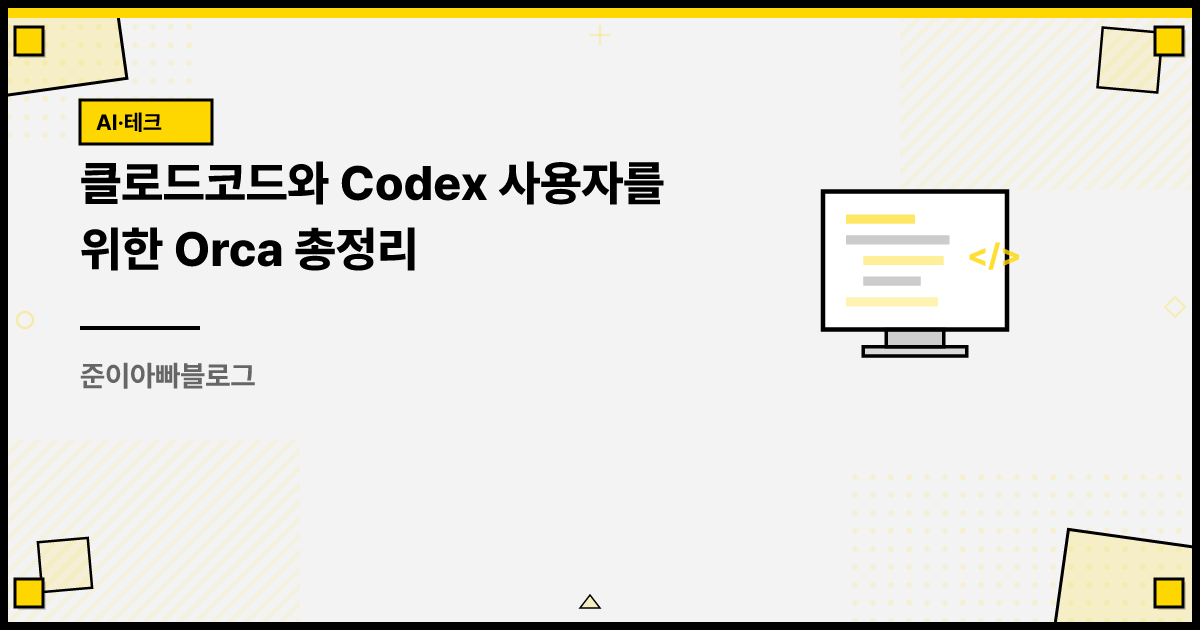
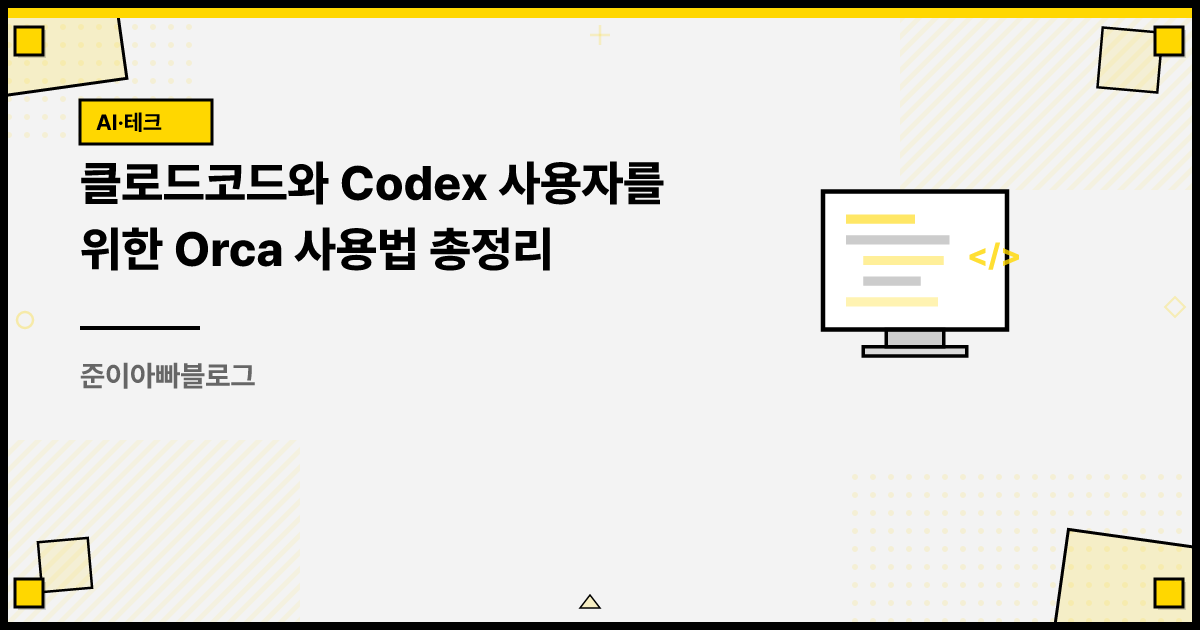
fix(insight): Orca 글 제목에 '사용법' 키워드 추가
- '클로드코드와 Codex 사용자를 위한 Orca 사용법 총정리'로 변경
- metaTitle, ogTitle, og 썸네일, llms.txt 목록 동기화

Changed region(s): [[0.2467, 0.3619, 0.4625, 0.4524]]

diff --git a/content/insights/orca-ide-easy-guide.md b/content/insights/orca-ide-easy-guide.md
@@ -1,6 +1,6 @@
 ---
 slug: orca-ide-easy-guide
-title: 클로드코드와 Codex 사용자를 위한 Orca 총정리
+title: 클로드코드와 Codex 사용자를 위한 Orca 사용법 총정리
 excerpt: >-
   클로드 코드(Claude Code)나 코덱스(Codex)를 쓰고 있다면 한 번쯤 들어봤을 Orca를 총정리했습니다. 두 도구를 여러 개
   동시에 돌리는 무료 프로그램 Orca의 정체, 사용법, VS Code, 커서와의 차이, 아직 불안정한 부분까지 다룹니다.
@@ -16,11 +16,11 @@ highlights:
     쓰던 클로드 코드나 코덱스 구독을 그대로 연결해서 쓰는 방식이라 추가 비용이 없고, 같은 지시를 여러 AI에 한 번에 보내 가장 좋은
     결과를 고를 수 있습니다.
   - '공개 4개월 차라 오류가 잦은 편이므로, 코딩 AI를 하나만 쓰고 있다면 서둘러 도입할 필요는 없습니다.'
-metaTitle: 클로드코드와 Codex 사용자를 위한 Orca 총정리 (2026)
+metaTitle: 클로드코드와 Codex 사용자를 위한 Orca 사용법 총정리 (2026)
 metaDescription: >-
   클로드 코드와 코덱스 사용자를 위해 Orca를 총정리했습니다. 두 코딩 AI를 여러 개 동시에 돌리는 무료 프로그램의 정체, 다운로드와
   사용법, VS Code, 커서, 안티그래비티와의 차이, 아직 불안정한 부분과 지금 써야 할지까지 다룹니다.
-ogTitle: 클로드코드와 Codex 사용자를 위한 Orca 총정리
+ogTitle: 클로드코드와 Codex 사용자를 위한 Orca 사용법 총정리
 ogDescription: >-
   클로드 코드와 코덱스를 여러 개 동시에 돌리는 무료 프로그램 Orca. 정체와 사용법, VS Code, 커서와의 차이, 지금 써야 할지까지
   총정리했습니다.
